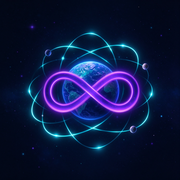
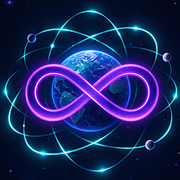
release: auto commit 20261112-100638

diff --git a/index.html b/index.html
@@ -1726,7 +1726,7 @@ select option{background:#040b1a;color:var(--cyan)}
             </div>
             <div style="background:rgba(0,0,0,0.2);border-radius:8px;padding:10px;">
               <div style="font-size:11px;color:var(--text-dim);">系统版本</div>
-              <div style="font-size:12px;color:var(--cyan);font-family:monospace;margin-top:4px;">v1.7.0 · UES-OS</div>
+              <div style="font-size:12px;color:var(--cyan);font-family:monospace;margin-top:4px;">v1.7.1 · UES-OS</div>
             </div>
             <div style="background:rgba(0,0,0,0.2);border-radius:8px;padding:10px;">
               <div style="font-size:11px;color:var(--text-dim);">防篡改等级</div>
@@ -6290,7 +6290,7 @@ select option{background:#040b1a;color:var(--cyan)}
             </div>
             <div style="background:rgba(0,0,0,0.2);border-radius:8px;padding:10px;">
               <div style="font-size:11px;color:var(--text-dim);">系统版本</div>
-              <div style="font-size:12px;color:var(--cyan);font-family:monospace;margin-top:4px;">v1.7.0 · UES-OS</div>
+              <div style="font-size:12px;color:var(--cyan);font-family:monospace;margin-top:4px;">v1.7.1 · UES-OS</div>
             </div>
             <div style="background:rgba(0,0,0,0.2);border-radius:8px;padding:10px;">
               <div style="font-size:11px;color:var(--text-dim);">防篡改等级</div>
@@ -9946,7 +9946,7 @@ setInterval(function(){
   render(); setInterval(render, 2000);
 })();
 
-/* ===== 全宇宙通信 · 新卫星发射 → 全宇宙互联网组网 实时状态（v1.7.0） ===== */
+/* ===== 全宇宙通信 · 新卫星发射 → 全宇宙互联网组网 实时状态（v1.7.1） ===== */
 (function(){
   var KEY = 'ues_comm_satellites';
   var LEVELS = ['宇宙层级','星系层级','星球层级','文明层级','国家层级','地区层级','个人层级','未分层级存在'];
@@ -12283,7 +12283,7 @@ function runTranslate(){
     return mockDataMap[moduleId] || {};
   }
   
-  // ===== 🌐 实时网速监测（v1.7.0）：真实下载采样，非模拟值 =====
+  // ===== 🌐 实时网速监测（v1.7.1）：真实下载采样，非模拟值 =====
   var NET_PROBE_URL = 'icons/icon-192.png';
   var NET_PROBE_INTERVAL = 8000;
   var netSpeedState = { mbps: 0, kbps: 0, bytes: 0, ms: 0, latency: 0, at: 0, err: false };
@@ -16663,7 +16663,7 @@ var autoSyncDeployInterval = null;
 var autoSyncDeployRunning = false;
 var autoSyncDeployCount = 0;
 var lastSyncDeployTime = 0;
-var systemVersion = 'v1.7.0';
+var systemVersion = 'v1.7.1';
 
 // 同步部署到所有服务器（全宇宙·全球·各星球）
 function syncDeployToAllServers(systemName) {
@@ -19036,7 +19036,7 @@ function _doRealTransfer(account, name, amount){
     body: JSON.stringify({payeeType:'internal', payeeAccount: account || '扫码收款方', payeeName: name || '', amount: amount, remark: '扫码支付·'+(name||'收款方')})
   }).then(function(r){return r.json();}).catch(function(e){return {success:false, msg:String(e)};});
 }
-/* ===== 扫码支付 · 二维码金额识别 + 无限钱包余额直扣（v1.7.0） ===== */
+/* ===== 扫码支付 · 二维码金额识别 + 无限钱包余额直扣（v1.7.1） ===== */
 var SCAN_HISTORY_KEY = 'ues_scan_pay_history';
 window.lastScanResult = null;
 function parseQrAmount(raw){

diff --git a/sw.js b/sw.js
@@ -2,7 +2,7 @@
  * 版本: v1.6.99
  * 作用: 让系统在云 / ARM 工控板 / Android / iOS / 鸿蒙 上离线可启动、可安装、可运行
  */
-const VERSION = 'ues-v1.7.000';
+const VERSION = 'ues-v1.7.100';
 const CORE_CACHE = `${VERSION}-core`;
 
 const CORE_ASSETS = [
